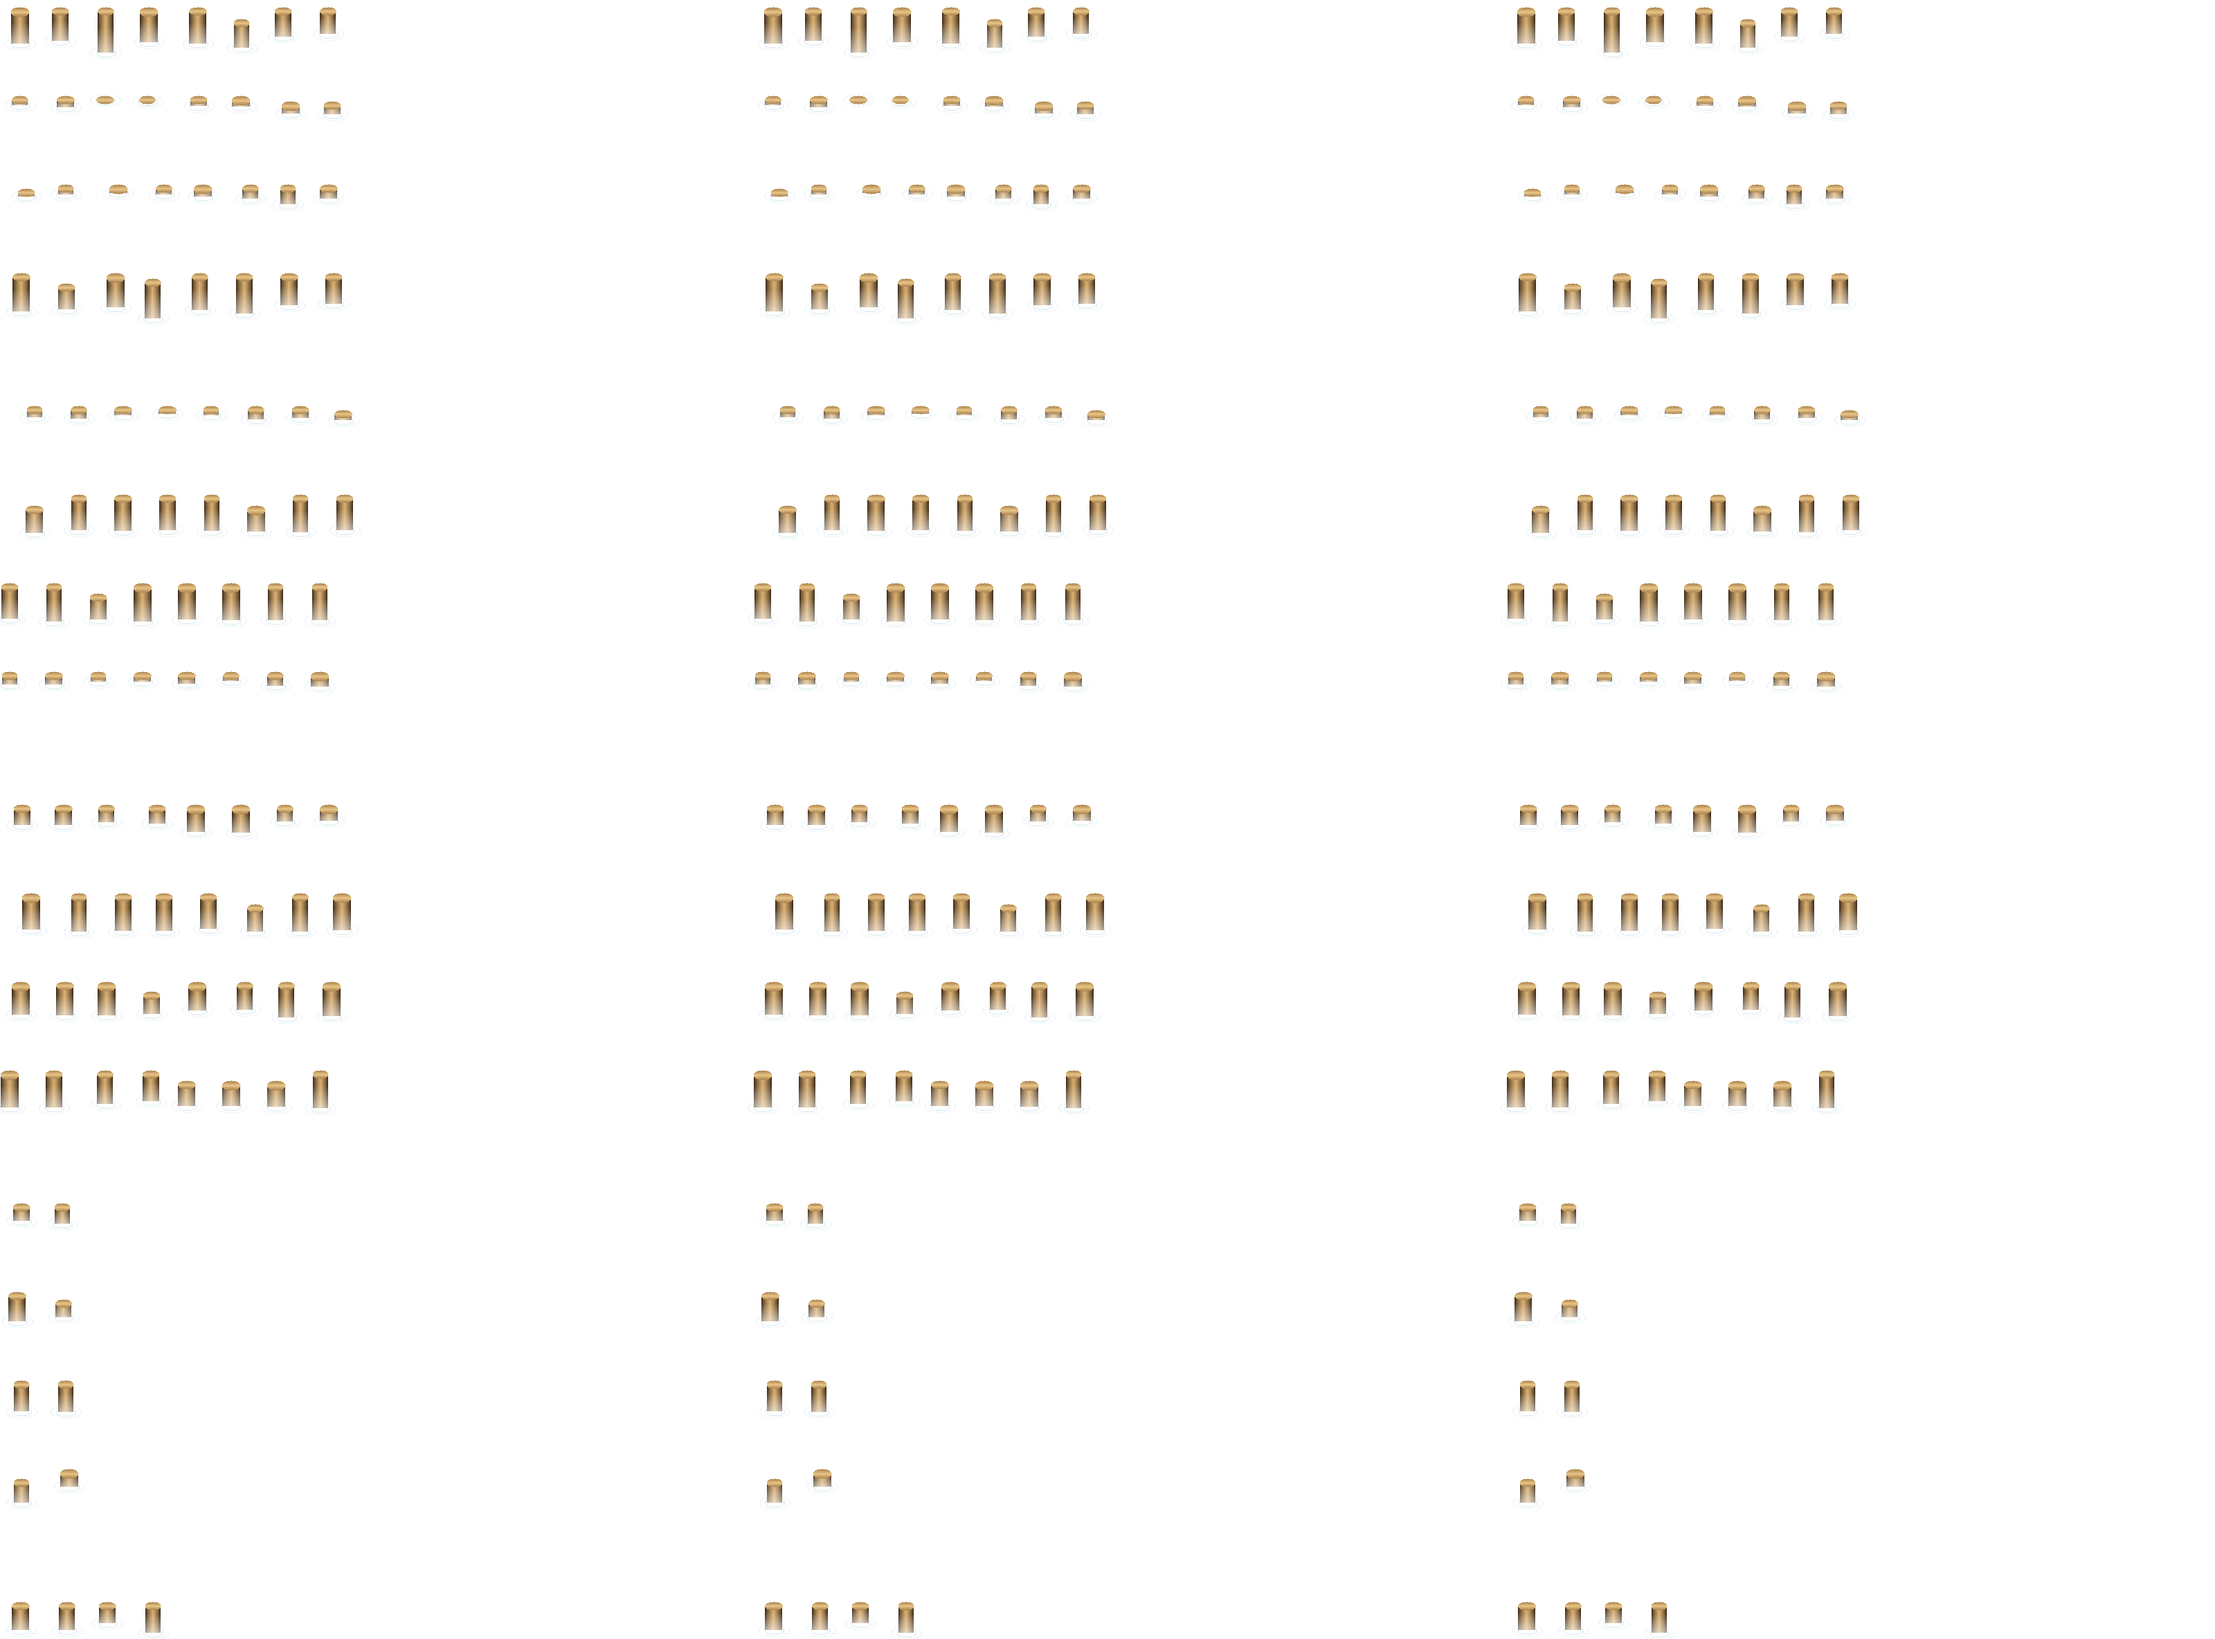
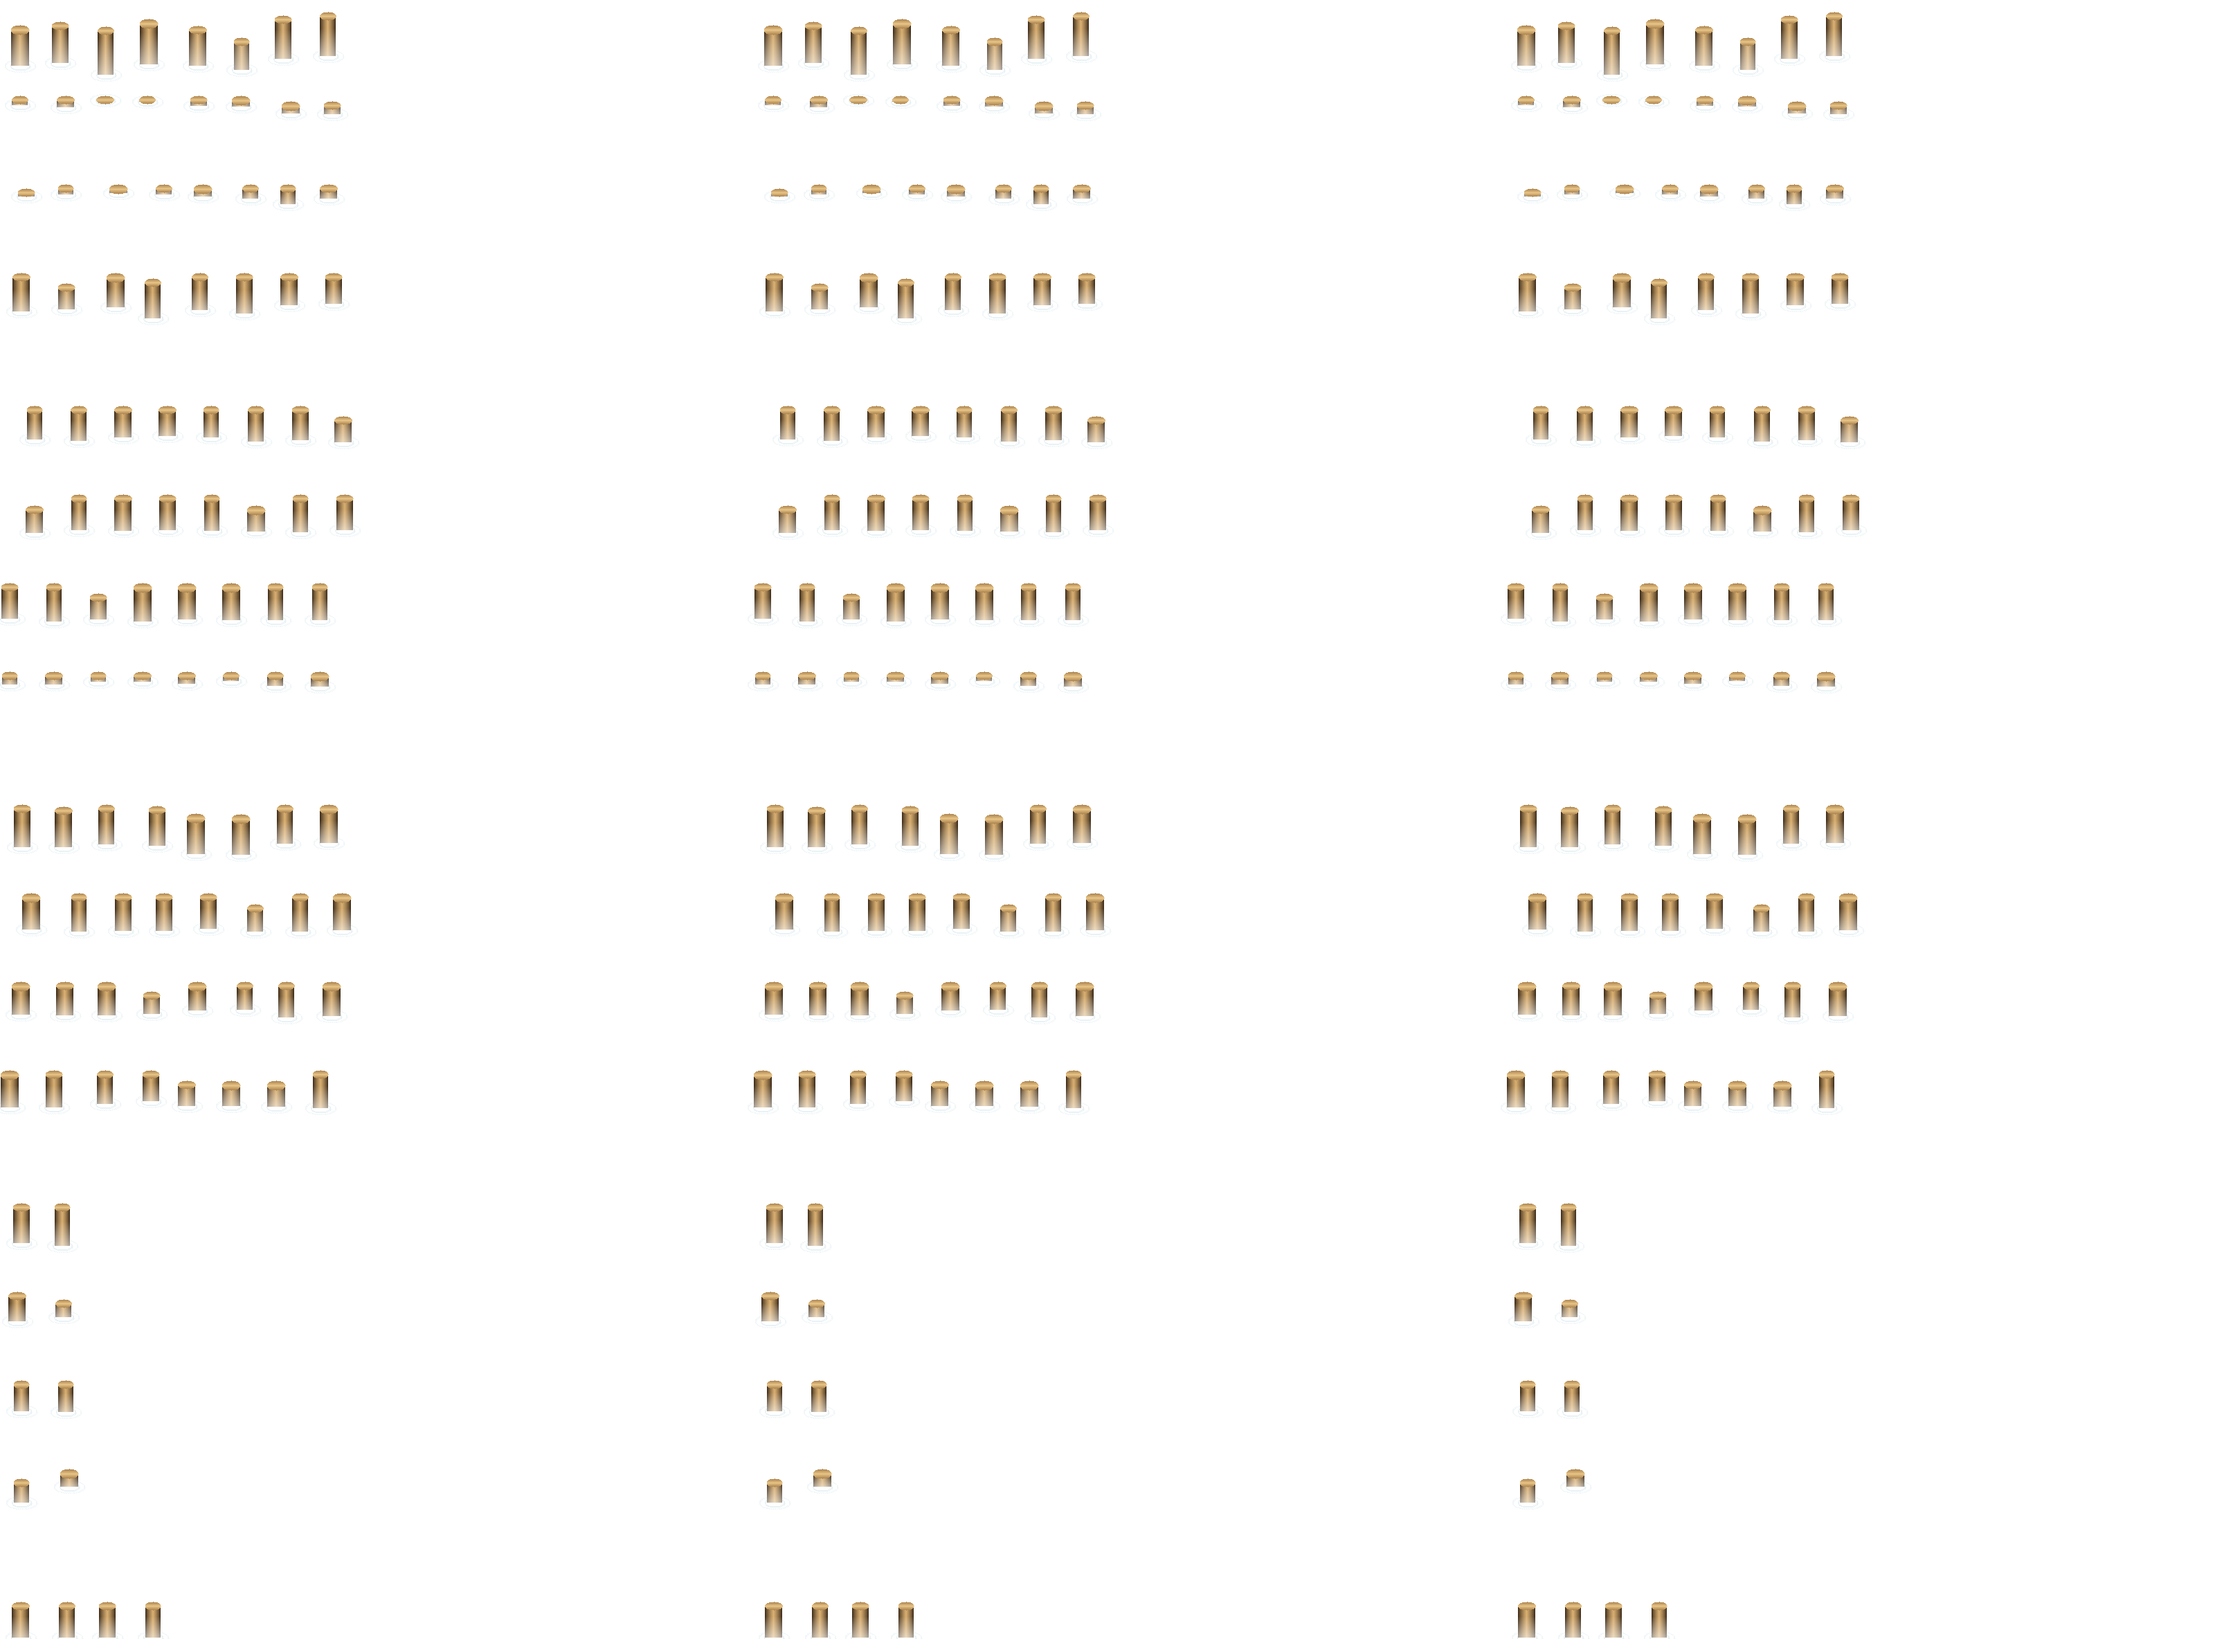
Restructure: gold standard + experiment slots
py-ford-flooded is the gold standard (unchanged: gold art, bank join,
posts). Breaking changes authorized (mod unreleased, unused): culled
py-ford baseline, planks/planks-ns, planks-under/planks-under-ns and
the flooded-ramp legacy duplicate - all in git history.

Experiment slots:
- py-ford-exp-1 (posts v2): 2/3-size posts, wood rings on the cut
  faces, softer shading against the barcode effect, north-facing posts'
  bases shifted half a tile south (base-anchored: the base is the
  anchor, the cap is derived - BASE_SHIFT_ROWS in the generator).
- py-ford-exp-2 (shader-lapped posts): exp-1 art plus a water-effect
  strength mask (pilings-mask.png, polarity measured from vanilla:
  0 = dry over crowns, 170 = full water elsewhere) so crowns render out
  of the water and the shader's waterline wraps each post. Open risk:
  the N/S splash anchor - this full-piece-layout mask is the test.
Third slot left free. Unused art (ramp/palisade/planks-ns/pontoons)
removed; tools/gen-placeholders.py documents all knobs and guesses.

diff --git a/tools/gen-placeholders.py b/tools/gen-placeholders.py
@@ -1,94 +1,127 @@
 #!/usr/bin/env python3
-"""Regenerates the placeholder pilings sheet (graphics/pilings.png).
+"""Generates the ford post sheets.
 
-One post per 64px sheet column (= one post per tile edge), anchored to the
-vanilla landfill shore silhouette for position only. Each post: elliptical cut
-face (~45 deg downward projection), cylinder-shaded body, solid crown fading to
-a translucent foot (the water beneath shows through), painted foam rings at the
-base for the lapping look. Posts are stamped into all three panels
-(overlay/background/mask) at the same coordinates.
+  pilings.png      gold standard art (py-ford-flooded) - DO NOT TUNE, keep byte-stable
+  pilings-exp.png  experiment posts (exp-1 and exp-2): 2/3 size, wood rings on the
+                   cut faces, softer shading (anti-"barcode"), north-facing posts
+                   shifted half a tile south so the tops sit closer to the planks
+  pilings-mask.png water-effect strength mask for exp-2: 0 over the post crowns
+                   (dry - sprite shows crisp), 170 everywhere else (full water
+                   effect; the shader's waterline wraps each post at the crown/foot
+                   boundary = lapping). Polarity measured from vanilla's
+                   water-dirt-mask: land side ~34 (weak), lap zone ~107, max 170.
 
-The land-side band and palisade generators from earlier iterations are in git
-history (see commits cbcd366, 6e0d8d5, a4a34bc).
+Sheet structure (decoded from base): 64px columns = one slot per tile edge;
+bands at y 0/576/1152/1728 hold 8 columns x 4 rotation rows of 64x128 pieces;
+the o band (y 2304) holds 4 columns x 1 row of 64x64 pieces. The 8 columns are
+the engine's randomization slots.
 
-Knobs (all in one place):
-  POST_W, H range, JITTER, foot alpha, foam radii - see constants below.
-Known wanted tweaks, deferred to Blender-era modelling:
-  - posts ~2/3 the current size
-  - wood-ring texture on the cut faces
-  - north-facing posts shifted ~half a tile south (tops closer to the planks)
-  - softer contact shadow (current hard base shading reads as a "barcode")
-  - chain from posts down to planks; bolts/rivets on the planks
+ANCHORING MODEL: the post's BASE is the anchor (it stands at the waterline);
+the cap is derived (base - height). Placement tweaks are expressed as per-row
+BASE_SHIFT_ROWS adjustments; weathering shortens posts from the cap down.
+
+OPEN GUESSES (flagged for in-game A/B):
+  BASE_SHIFT_ROWS = {0} assumes rotation row 0 = north edge (its base sits half
+  a tile too far from the planks). If exp-1 shows the wrong side shifted, flip
+  to {2}.
 """
 from PIL import Image
 import numpy as np, random, math
 
 BASE = "/home/nmrp3/.local/share/factorio_2_dlc/data/base/graphics/terrain/water-transitions/"
-OUT = "pilings.png"
-PANELS = (0, 1088, 2176)                       # overlay/background/mask panel x-offsets
-BANDS = [(0, 8, 128, 4), (576, 8, 128, 4), (1152, 8, 128, 4),
-         (1728, 2, 128, 4), (2304, 4, 64, 1)]  # (band y, columns, cell h, rotation rows)
+PANELS = (0, 1088, 2176)
+BANDS = [(0, 8, 128, 4), (576, 8, 128, 4), (1152, 8, 128, 4), (1728, 2, 128, 4), (2304, 4, 64, 1)]
+BASE_SHIFT_ROWS = {0: 32}  # per-rotation-row base anchor adjustment (base = anchor;
+                           # 32px = half a tile on the 2x sheet)
 
-POST_W = 24            # px on the 2x sheet (12 screen px)
-H_MIN, H_MAX = 58, 74  # post body height range before weathering
-JITTER_POS, JITTER_H = 4, 2
-FOOT_ALPHA = 115.0     # opacity at the submerged foot (255 = fully solid crown)
-WEATHERED_CHANCE, WEATHERED_FACTOR = 0.18, 0.72
+GOLD = dict(w=24, hmin=58, hmax=74, jpos=4, foot=115.0, seed=9000,
+            dark=(44, 29, 15), lite=(218, 176, 114), cap=(232, 196, 134), capedge=(168, 128, 76),
+            wf=0.18, wfac=0.72, rings=False)
+EXP = dict(w=16, hmin=40, hmax=50, jpos=3, foot=115.0, seed=41000,
+           dark=(70, 48, 26), lite=(224, 186, 122), cap=(238, 204, 142), capedge=(184, 144, 90),
+           wf=0.18, wfac=0.72, rings=True)
 
-DARK = np.array([44, 29, 15], np.float32); LITE = np.array([218, 176, 114], np.float32)
-CAP = np.array([232, 196, 134], np.float32); CAPEDGE = np.array([168, 128, 76], np.float32)
 FOAM = np.array([205, 226, 232], np.float32)
+WATER_VALUE = 170.0   # "full water effect" per vanilla's own mask scale
 
 van = np.asarray(Image.open(BASE + "landfill.png").convert("RGBA")).astype(np.float32)
 alpha2 = van[..., 3]
-cv = np.zeros((2368, 3200, 4), np.float32)
 
-def ripple(cx, cy, rx, ry, a):
+def npv(c): return np.array(c, np.float32)
+
+def draw_foam(cv, cx, cy, rx, ry, a):
     for t in np.linspace(0, 2 * math.pi, 90):
         for th in (0, 1):
             x, y = int(cx + rx * math.cos(t)) + th, int(cy + ry * math.sin(t)) + th
-            if 0 <= y < 2368 and 0 <= x < 3200 and cv[y, x, 3] < a:
+            if 0 <= y < cv.shape[0] and 0 <= x < cv.shape[1] and cv[y, x, 3] < a:
                 cv[y, x, :3], cv[y, x, 3] = FOAM, a
 
-def post(px, base_y, y_min, h, w):
+def draw_post(cv, px, base_y, y_min, h, w, p):
     rx = w / 2.0
-    ry = max(int(rx * 0.55), 3)                      # foreshortened cut face (~45 deg)
+    ry = max(int(rx * 0.55), 3)
     cy_cap = max(int(base_y - h), y_min) + ry
     x0 = int(px - rx)
-    for x in range(x0, x0 + w):                      # body below the cap
+    for x in range(x0, x0 + w):
         t = (x - x0 + 0.5) / w
-        col = DARK + (LITE - DARK) * ((1 - abs(t - 0.5) * 2) ** 0.7)
+        col = npv(p["dark"]) + (npv(p["lite"]) - npv(p["dark"])) * ((1 - abs(t - 0.5) * 2) ** 0.7)
         for y in range(int(cy_cap), int(base_y)):
             frac = (y - y_min) / max(base_y - y_min, 1)
-            a = 255.0 if frac < 0.5 else 255.0 - (frac - 0.5) / 0.5 * (255.0 - FOOT_ALPHA)
+            a = 255.0 if frac < 0.5 else 255.0 - (frac - 0.5) / 0.5 * (255.0 - p["foot"])
             cv[y, x, :3], cv[y, x, 3] = col, a
-    for dy in range(-ry, ry + 1):                    # elliptical cut face
+    for dy in range(-ry, ry + 1):  # elliptical cut face
         hw = rx * math.sqrt(max(1.0 - (dy / ry) ** 2, 0.0))
         xa, xb = int(px - hw), int(px + hw)
-        cv[cy_cap + dy, xa:xb + 1, :3] = CAP + (CAPEDGE - CAP) * (abs(dy) / ry)
+        cv[cy_cap + dy, xa:xb + 1, :3] = npv(p["cap"]) + (npv(p["capedge"]) - npv(p["cap"])) * (abs(dy) / ry)
         cv[cy_cap + dy, xa:xb + 1, 3] = 255.0
+    if p["rings"]:  # wood rings on the cut face
+        for fr in (0.55, 0.28):
+            ring = npv(p["capedge"]) * 0.75
+            for t in np.linspace(0, 2 * math.pi, 48):
+                x, y = int(px + fr * rx * math.cos(t)), int(cy_cap + fr * ry * math.sin(t))
+                if 0 <= y < cv.shape[0] and 0 <= x < cv.shape[1]:
+                    cv[y, x, :3] = ring
 
-n = 0
-for y0, cols, ch, rows in BANDS:
-    for r in range(rows):
-        ry0 = y0 + r * 128
-        for c in range(cols):
-            cx0 = c * 64
-            rng = random.Random(9000 + y0 * 31 + r * 7 + c)
-            ca = alpha2[ry0:ry0 + ch, cx0:cx0 + 64]
-            ys, xs = np.nonzero(ca > 128)
-            if len(ys) == 0: continue
-            px_rel = min(max(int(xs.mean()) + rng.randint(-JITTER_POS, JITTER_POS), 14), 50)
-            col_a = ca[:, px_rel]
-            base_rel = min(int(np.nonzero(col_a > 128)[0].max()) + 1 + rng.randint(-JITTER_H, JITTER_H), ch - 2)
-            w = POST_W + rng.randint(-2, 2)
-            h = min(rng.randint(H_MIN, H_MAX), base_rel - 10)
-            if rng.random() < WEATHERED_CHANCE: h = int(h * WEATHERED_FACTOR)
-            bx, by = cx0 + px_rel, ry0 + base_rel
-            for dx in PANELS:
-                ripple(bx + dx, by, 22, 9, 70); ripple(bx + dx, by, 14, 6, 110)
-                post(bx + dx, by, ry0, h, w)
-            n += 1
+def gen(p, out, mask_out=None):
+    art = np.zeros((2368, 3200, 4), np.float32)
+    mask = np.full((2368, 512), WATER_VALUE, np.float32) if mask_out else None
+    n = 0
+    for y0, cols, ch, rows in BANDS:
+        for r in range(rows):
+            ry0 = y0 + r * 128
+            for c in range(cols):
+                cx0 = c * 64
+                rng = random.Random(p["seed"] + y0 * 31 + r * 7 + c)
+                ca = alpha2[ry0:ry0 + ch, cx0:cx0 + 64]
+                ys, xs = np.nonzero(ca > 128)
+                if len(ys) == 0: continue
+                px_rel = min(max(int(xs.mean()) + rng.randint(-p["jpos"], p["jpos"]), 14), 50)
+                col_a = ca[:, px_rel]
+                base_rel = min(int(np.nonzero(col_a > 128)[0].max()) + 1 + rng.randint(-2, 2), ch - 2)
+                base_rel = min(base_rel + BASE_SHIFT_ROWS.get(r, 0), ch - 2)
+                w = p["w"] + rng.randint(-2, 2)
+                h = min(rng.randint(p["hmin"], p["hmax"]), base_rel - 10)
+                if rng.random() < p["wf"]: h = int(h * p["wfac"])
+                bx, by = cx0 + px_rel, ry0 + base_rel
+                top = max(int(by - h), ry0)
+                for dx in PANELS:
+                    draw_foam(art, bx + dx, by, 22, 9, 70); draw_foam(art, bx + dx, by, 14, 6, 110)
+                    draw_post(art, bx + dx, by, ry0, h, w, p)
+                if mask is not None:  # crown = dry, foot = water (single-panel sheet)
+                    mid = int(by - h * 0.5)
+                    rx = w / 2.0; ry = max(int(rx * 0.55), 3)
+                    cy_cap = top + ry
+                    for dy in range(-ry, ry + 1):
+                        hw = int(rx * math.sqrt(max(1.0 - (dy / ry) ** 2, 0.0)))
+                        mask[cy_cap + dy, max(bx - hw, 0):min(bx + hw + 1, 512)] = 0.0
+                    mask[mid:int(by), max(bx - int(rx), 0):min(bx + int(rx) + 1, 512)] = 0.0
+                n += 1
+    Image.fromarray(art.clip(0, 255).astype(np.uint8), "RGBA").save(out)
+    if mask is not None:
+        m = np.zeros((2368, 512, 4), np.float32)
+        m[..., 0] = m[..., 1] = m[..., 2] = mask
+        m[..., 3] = 255.0
+        Image.fromarray(m.clip(0, 255).astype(np.uint8), "RGBA").save(mask_out)
+    print(f"{out}: {n} posts" + (f" (+ {mask_out})" if mask_out else ""))
 
-Image.fromarray(cv.clip(0, 255).astype(np.uint8), "RGBA").save(OUT)
-print(f"{OUT}: {n} posts written")
+gen(GOLD, "pilings.png")
+gen(EXP, "pilings-exp.png", mask_out="pilings-mask.png")
